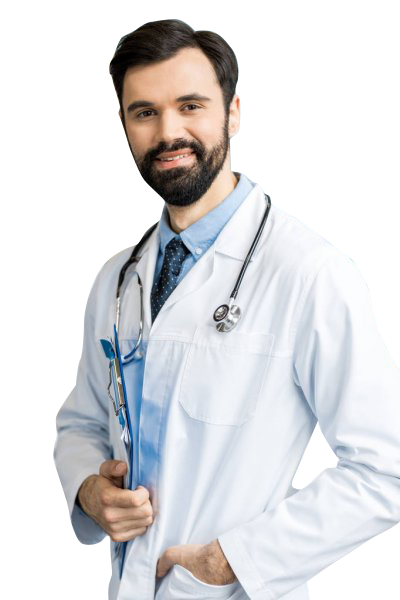
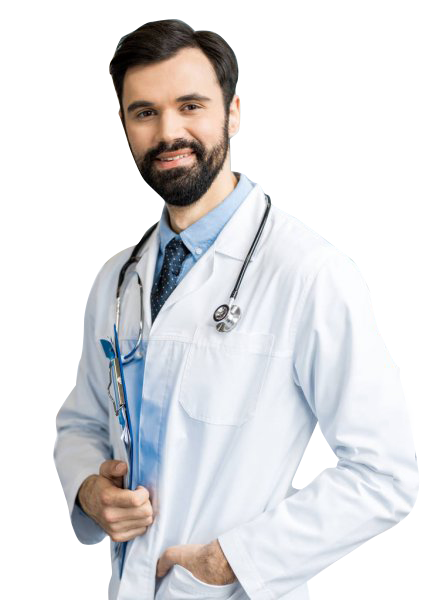
medical service

Changed region(s): [[0.12, 0.03, 1.0, 1.0], [0.6, 0.57, 0.63, 0.6]]

diff --git a/html/homepage.html b/html/homepage.html
@@ -79,24 +79,27 @@
     <main>
         <section class="main-sectinon-1">
             <!-- start of Card -->
-            <div class="container py-4">
-            <div class="col-md-4">
-              <div class="h-100 p-5 text-white bg-dark rounded-3">
-                <h2>Change the background</h2>
-                <p>Swap the background-color utility and add a `.text-*` color utility to mix up the jumbotron look. Then, mix and match with additional component themes and more.</p>
-                <button class="btn btn-outline-light" type="button">Example button</button>
+            <img src="../resources/doctor1.png" class="rounded float-end" style="margin-right: 30%;">
+            <div class="container py-3"></div>
+            <div class="container py-5">
+              <div class="col-md-5">
+                
+                <div class="h-100 p-5 border bg-light rounded-3 medical-services">
+                  <img src="../resources/medical_services.png" alt="" width="400">
+                  
+                  <div style="text-align: justify;">
+                      <h4>Lorem ipsum dolor sit amet consectetur adipisicin </h4>
+                      <p>Lorem ipsum dolor sit, amet consectetur adipisicing elit. Maxime recusandae voluptatem quas repellendus omnis magnam ea qui, mollitia dolorum ratione voluptatum aliquid impedit earum obcaecati modi consequatur unde blanditiis ut.</p>
+                  </div>
+                  <div class="d-grid gap-4 d-md-flex">
+                    <button class="btn btn-md btn-outline-info" type="button">MAKE AN APPOINTMENT</button>
+                    <button class="btn btn-md btn-outline-primary" type="button">DEPARTMENTS</button> 
+                  </div>
+                </div>
               </div>
-            </div>
-          </div>
+          </div><br><br><br>
+          
             <!-- End of Card -->
-            <h1 class="main-section-1__headline"><span class="main-section-1__headline--medical">Medical</span><span class="main-section-1__headline--services">Services</span></h1>
-            <h2 class="main-section-1__subhead">Lorem ipsum dolor sit amet</h2>
-            <p class="main-section-1__p">Lorem ipsum dolor sit amet, consectetur adipiscing elit. Maecenas sit amet varius magna, nec fermentum nisl. Integer eu suscipit nibh. Integer ac diam id diam dapibus mattis</p>
-            <div class="main-section-1__btn">
-                <button class="main-section-1__btn--map">Make an appointment</button>
-                <button class="main-section-1__btn--dept">Departments</button>
-            </div>
-        </section>
 </div>  <!--Dont delete this div because it holds the whole image, main div for navbar and section 1-->
 
 

diff --git a/css/index.css b/css/index.css
@@ -3,9 +3,14 @@
     background-position: center;
     background-repeat: no-repeat;
     background-size: cover;
+
     
 }
 
+.medical-services{
+    background-color: white;
+
+}
 .nav-link{
     color: black;
 }
@@ -47,5 +52,4 @@
     font-stretch: expanded;
     font-size: 50px;
     color: #3ec9da;
-
 }
